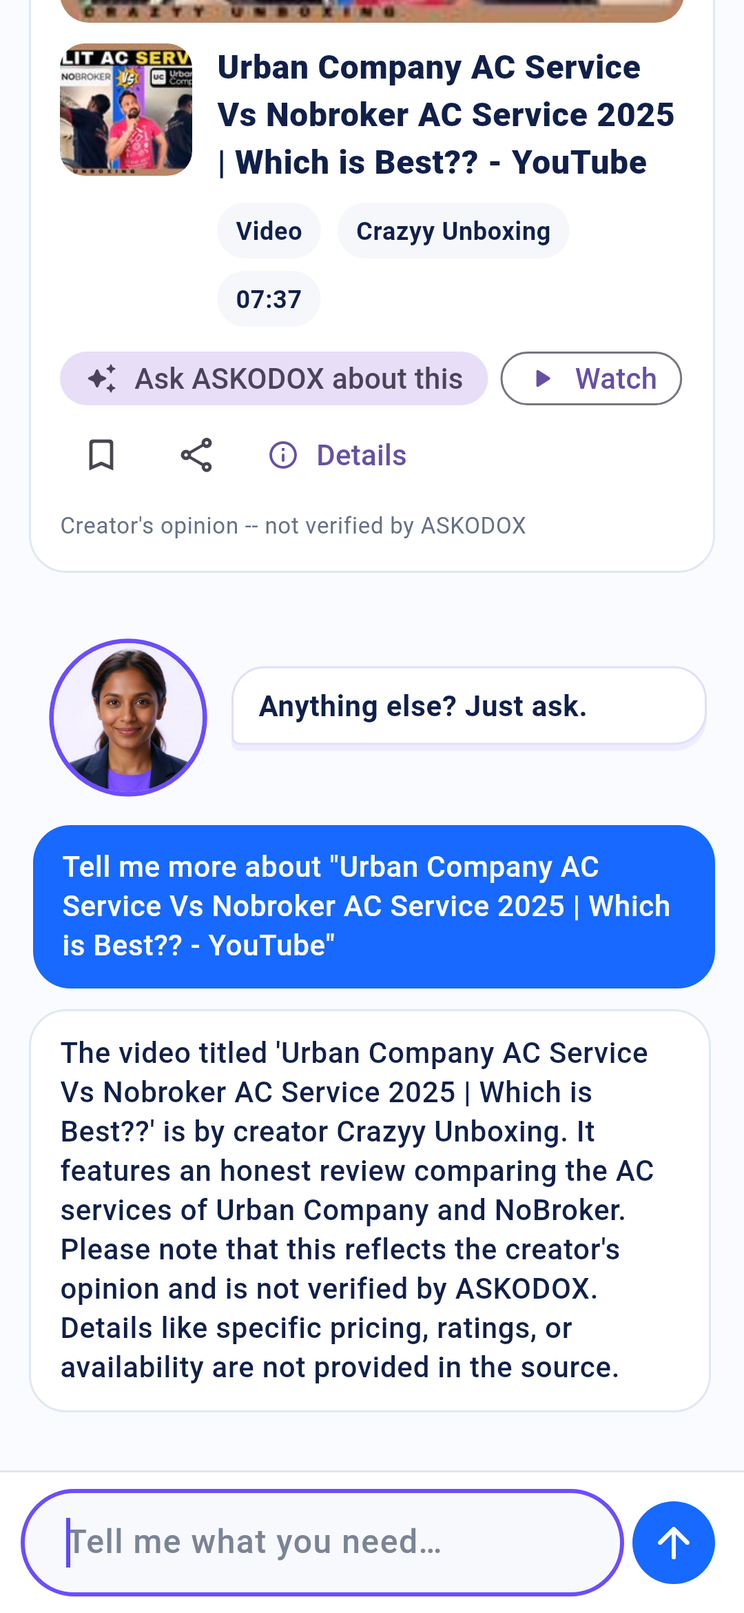
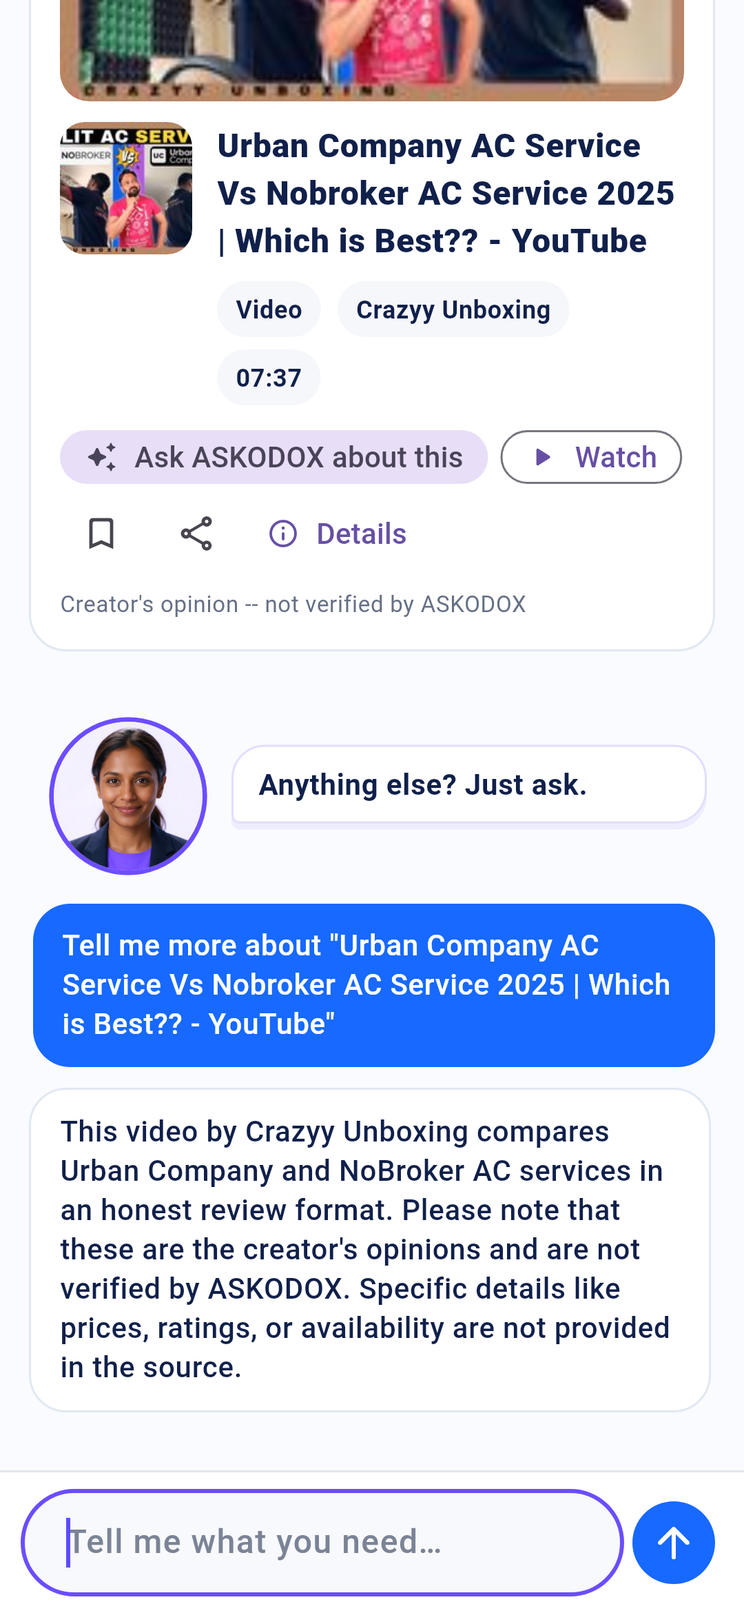
Video real-content proof (run 36677053441)

Changed region(s): [[0.0306, 0.3744, 0.9778, 0.8735], [0.0611, 0.0, 0.9167, 0.3744], [0.7639, 0.2184, 0.9167, 0.312]]

diff --git a/docs/video_proof/README.md b/docs/video_proof/README.md
@@ -1,6 +1,6 @@
 # Real video content proof
 
-Generated 2026-09-30T01:50:26Z by `.github/workflows/video-real-content-proof.yml` (run 36656721936).
+Generated 2026-09-30T06:16:08Z by `.github/workflows/video-real-content-proof.yml` (run 36677053441).
 
 * Video rows: **real**, from production's live web video search (Brave) -- replayed into this branch's pipeline, which adds references, YouTube oEmbed checks (live network), linking and disclosures.
 * AI answers: **real**, from the production assistant (`/api/in-app/assistant`) given exactly what the app sends (question + grounding from this branch's explain).
@@ -16,7 +16,7 @@ Generated 2026-09-30T01:50:26Z by `.github/workflows/video-real-content-proof.ym
 | vehicle | en | 1 | [Tata Nexon 3000 Km Long Term Review: 3 Reasons to Buy, 3 Re…](https://www.youtube.com/watch?v=PC-ztrSrDMo) | carandbike | yes (official YouTube embed) | Creator's opinion -- not verified by ASKODOX | yes | yes | tata nexon near me → 6 (deals, surplus, used) |
 | service | en | 1 | [Urban Company AC Service Vs Nobroker AC Service 2025 / Whic…](https://www.youtube.com/watch?v=KOYoiZG5_3E) | Crazyy Unboxing | yes (official YouTube embed) | Creator's opinion -- not verified by ASKODOX | yes | yes | ac service near me → 4 () |
 | home-service | en | 0 (production gave 1) | — | — | — | — | — | — | — |
-| food | en | 1 | [HYDERABADI CHICKEN DUM BIRYANI RECIPE / हैदराबादी चिकन दम ब…](https://www.youtube.com/watch?v=kYRcu5ZWxbo) | Your Food Lab | yes (official YouTube embed) | Creator's opinion -- not verified by ASKODOX | yes | yes | hyderabadi biryani near me → 5 (deals, used) |
+| food | en | 1 | [Hyderabadi Chicken Biryani / Chicken Biryani Recipe / Resat…](https://www.youtube.com/watch?v=1Nb0khRXiJk) | Ashus Delicacies | yes (official YouTube embed) | Creator's opinion -- not verified by ASKODOX | yes | yes | hyderabadi biryani near me → 5 (deals, used) |
 | travel | en | 1 | [Ultimate Araku Valley Travel Guide: Top Things to Do and Se…](https://www.youtube.com/watch?v=NWiBFTd5aD0) | Let's Discover India | yes (official YouTube embed) | Creator's opinion -- not verified by ASKODOX | yes | yes | araku valley trip reviews → 6 (deals) |
 | used-item | en | 1 | [The Truth About the Royal Enfield Classic 350 (2025 Review)…](https://www.youtube.com/watch?v=88rgLE_eNJk) | Jack Brock | yes (official YouTube embed) | Creator's opinion -- not verified by ASKODOX | yes | yes | used royal enfield classic 350 near me → 6 (deals, used) |
 | deal | en | 1 | [iPhone 15 in 2026 - worth it? (Review) - YouTube](https://www.youtube.com/watch?v=DJ5BkFUoKxg) | 91Tech | yes (official YouTube embed) | Creator's opinion -- not verified by ASKODOX | yes | yes | iphone 15 offers → 6 (deals, surplus, used) |
@@ -34,11 +34,11 @@ Label: Creator's opinion -- not verified by ASKODOX
 
 **User:** Tell me more about "Samsung 43 Inch Crystal UHD 4K Vision AI TV Review [2026] | 30W Speakers, HDR, Tizen OS - YouTube"
 
-**ASKODOX AI (production):** The video titled 'Samsung 43 Inch Crystal UHD 4K Vision AI TV Review [2026]' by creator Udrawat highlights features like 30W Speakers, HDR, and Tizen OS. Please note that this reflects the creator's opinion and is not verified by ASKODOX. Specific details such as price, ratings, and stock availability are not provided by the source.
+**ASKODOX AI (production):** Based on the video title from Udrawat, this 2026 review covers the Samsung 43 Inch Crystal UHD 4K Vision AI TV featuring 30W speakers, HDR support, and Tizen OS. Please note this is the creator's opinion and has not been verified by ASKODOX. Specific facts like price, rating, and stock availability are not provided by the source.
 
 **User (follow-up, same conversation):** Is it worth buying, and where can I get it here?
 
-**Production (main) AI:** The Samsung 43-inch Crystal UHD 4K TV is generally praised for its crisp display, Tizen OS, and 30W speaker output, making it a strong budget 4K option. You can check for availability at local electronics stores in Vijayawada like Reliance Digital, Croma, or Pai International.  
+**Production (main) AI:** It offers good 4K display quality, Tizen OS, and 30W audio for a solid entry-level smart TV experience. Would you like me to help check local electronics store options or search for current deals?  
 **This branch:** Let me check real sellers, shops and online options near you -- the results appear below. (action `find_local`: the real options below are the answer; shop names never come from the AI's memory)
 
 **Next step:** "samsung 43 inch tv near me" → samsung 43 inches tv | Used TV & DVD & Multimedia in Bangalore | Electronics & Appliances Quikr Bazaar Bangalore [used]; Samsung 43-inch TVs Price List in India (September 2026) [deals]; Second Hand TV - Old TV Latest Price, Manufacturers & Suppliers [used]; Buy Refurbished / Used TV & DVD in Vijayawada | Second Hand TV / Television For Sale Online | QuikrBazaar [used]
@@ -53,11 +53,11 @@ Label: Creator's opinion -- not verified by ASKODOX
 
 **User:** "Samsung 43 Inch Crystal UHD 4K Vision AI TV Review [2026] | 30W Speakers, HDR, Tizen OS - YouTube" గురించి చెప్పండి: ధర, దూరం, నాణ్యత, అందుబాటు, రివ్యూలు
 
-**ASKODOX AI (production):** ఈ YouTube రివ్యూ వీడియో శీర్షిక ప్రకారం, ఇది 2026 నాటి Samsung 43 Inch Crystal UHD 4K Vision AI TV కి సంబంధించినది (30W స్పీకర్లు, HDR, Tizen OS). ఇవి క్రియేటర్ Udrawat యొక్క వ్యక్తిగత అభిప్రాయాలు, ASKODOX ద్వారా ధృవీకరించబడలేదు. ధర, అందుబాటు, నాణ్యత/రివ్యూల వివరాలు ప్రస్తుతానికి అందుబాటులో లేవు.
+**ASKODOX AI (production):** ఈ Samsung 43 Inch Crystal UHD 4K TV గురించి మీరు అడిగిన ధర, దూరం, అందుబాటు మరియు రివ్యూల వివరాలు ప్రస్తుత వనరు (Udrawat) ద్వారా లభించలేదు. వీడియో టైటిల్ ప్రకారం ఇందులో 30W స్పీకర్లు, HDR, Tizen OS ఉన్నాయి, પરંતુ ఇది క్రియేటర్ అభిప్రాయం మాత్రమే. మీకు ఖచ్చితమైన ధర మరియు అందుబాటు వివరాలు కావాలంటే అమ్మకందారుడిని లేదా షాప్ను సంప్రదించి సమాచారం కనుక్కోమంటారా?
 
 **User (follow-up, same conversation):** ఇది చిన్న గదికి సరిపోతుందా?
 
-**ASKODOX AI:** అవును, 43 అంగుళాల టీవీ చిన్న లేదా విభాగాత్మక (మీడియం) గదికి బాగా సరిపోతుంది. సాధారణంగా 4 నుండి 7 అడుగుల వీక్షణ దూరం (viewing distance) ఉన్న గదులకు ఇది అనుకూలంగా ఉంటుంది.
+**ASKODOX AI:** 43 అంగుళాల టీవీకి సుమారు 4 నుండి 6 అడుగుల వీక్షణ దూరం సరిపోతుంది. మీ చిన్న గదిలో అంత దూరం ఉంటే ఇది చాలా బాగా సరిపోతుంది.
 
 **Next step:** "samsung 43 inch tv offers" → samsung 43 inches tv | Used TV & DVD & Multimedia in Bangalore | Electronics & Appliances Quikr Bazaar Bangalore [used]; Samsung 43-inch TVs Price List in India (September 2026) [deals]; Second Hand TV - Old TV Latest Price, Manufacturers & Suppliers [used]; Buy Refurbished / Used TV & DVD in Vijayawada | Second Hand TV / Television For Sale Online | QuikrBazaar [used]
 
@@ -71,11 +71,11 @@ Label: Creator's opinion -- not verified by ASKODOX
 
 **User:** Tell me more about "Redmi Note 13 Pro Review - Not again! - YouTube"
 
-**ASKODOX AI (production):** This video titled 'Redmi Note 13 Pro Review - Not again!' is by creator Izzi Boye. Please note that this reflects the creator's personal opinion and has not been verified by ASKODOX. Specific details such as price, ratings, availability, and full specifications are not provided in the source.
+**ASKODOX AI (production):** This video by creator Izzi Boye is titled "Redmi Note 13 Pro Review - Not again! - YouTube" and covers a 4G unboxing and review of the Redmi Note 13 Pro. Please note that this reflects the creator's personal opinion and is not verified by ASKODOX. Specific details such as price, ratings, availability, or full specifications are not provided by the source.
 
 **User (follow-up, same conversation):** Is it worth buying, and where can I get it here?
 
-**Production (main) AI:** The Redmi Note 13 Pro offers strong features like a 200MP camera and 120Hz AMOLED display, making it a solid choice if you want good performance and display. You can buy it online or check local electronics stores in Vijayawada like Mi Home, Reliance Digital, or Bajaj Electronics.  
+**Production (main) AI:** The video highlights creator Izzi Boye's hands-on thoughts, but whether it's worth buying depends on if you want the 4G or 5G version. You can check local electronics stores or online sellers around Vijayawada for local stock.  
 **This branch:** Let me check real sellers, shops and online options near you -- the results appear below. (action `find_local`: the real options below are the answer; shop names never come from the AI's memory)
 
 **Next step:** "redmi note 13 pro offers" → Buy Old Used Xiaomi Redmi Note 13 Pro 4G Phones Under ... [used]; Open Box Store [surplus]; Redmi Note 13 5G, Note 13 Pro 5G, Note 13 Pro+ 5G goes on sale on Vijay Sales - Times of India [deals]; Buy Refurbished and Second Hand Xiaomi Redmi Note 13 Pro 5G Online at Cashify Store [used]
@@ -90,11 +90,11 @@ Label: Creator's opinion -- not verified by ASKODOX
 
 **User:** Tell me more about "Tata Nexon 3000 Km Long Term Review: 3 Reasons to Buy, 3 Reasons to Avoid - YouTube"
 
-**ASKODOX AI (production):** The video titled 'Tata Nexon 3000 Km Long Term Review: 3 Reasons to Buy, 3 Reasons to Avoid' is created by carandbike based on their 3-month long-term test of the subcompact SUV. Please note that this reflects the creator's opinion and is not verified by ASKODOX. Specific details like price, rating, and detailed specifications are not provided in the source.
+**ASKODOX AI (production):** The video titled 'Tata Nexon 3000 Km Long Term Review: 3 Reasons to Buy, 3 Reasons to Avoid' by carandbike shares the creator's opinion after testing the subcompact SUV over 3 months and 3,000 km. Please note that this reflects carandbike's subjective review and is not verified by ASKODOX. Specific details like pricing, ratings, or full specifications were not provided with this video source.
 
 **User (follow-up, same conversation):** Is it worth buying, and where can I get it here?
 
-**Production (main) AI:** The Tata Nexon offers strong safety, good ride quality, and feature-rich variants, though some users note minor tech glitches. You can visit authorized Tata Motors showrooms in Vijayawada like Saboo RKS or Select Motors to check availability and test drive.  
+**Production (main) AI:** The Tata Nexon is generally considered a solid, feature-rich subcompact SUV with a 5-star safety rating, though performance can vary by variant. To check availability and local pricing in Vijayawada, are you looking for a specific variant or fuel type (Petrol/Diesel/EV)?  
 **This branch:** Let me check real sellers, shops and online options near you -- the results appear below. (action `find_local`: the real options below are the answer; shop names never come from the AI's memory)
 
 **Next step:** "tata nexon near me" → Tata NEXON Used Cars in Vijayawada | Second Hand Tata NEXON Cars in Vijayawada - Cars24 [used]; Tata Nexon On Road Price in Vijayawada (2026) – ₹8.63 lakh Onwards | Autocar India [surplus]; Tata Nexon May 2026 Offers in Vijayawada - Latest Discount & EMI Offers [deals]; 7+ Used Tata Nexon Cars in Vijayawada - Second Hand Tata Nexon Cars in Vijayawada [used]
@@ -109,30 +109,30 @@ Label: Creator's opinion -- not verified by ASKODOX
 
 **User:** Tell me more about "Urban Company AC Service Vs Nobroker AC Service 2025 | Which is Best?? - YouTube"
 
-**ASKODOX AI (production):** The video titled 'Urban Company AC Service Vs Nobroker AC Service 2025 | Which is Best??' is by creator Crazyy Unboxing. It features an honest review comparing the AC services of Urban Company and NoBroker. Please note that this reflects the creator's opinion and is not verified by ASKODOX. Details like specific pricing, ratings, or availability are not provided in the source.
+**ASKODOX AI (production):** This video by Crazyy Unboxing compares Urban Company and NoBroker AC services in an honest review format. Please note that these are the creator's opinions and are not verified by ASKODOX. Specific details like prices, ratings, or availability are not provided in the source.
 
 **User (follow-up, same conversation):** Is it worth buying, and where can I get it here?
 
-**Production (main) AI:** It depends on your preference for pricing and service quality. You can book AC servicing directly through the Urban Company or NoBroker apps, or hire local technicians in Vijayawada.  
+**Production (main) AI:** Yes, both offer reliable AC servicing, and you can book through the Urban Company or NoBroker apps directly in Vijayawada. Would you like me to find local AC service specialists instead?  
 **This branch:** Let me check real sellers, shops and online options near you -- the results appear below. (action `find_local`: the real options below are the answer; shop names never come from the AI's memory)
 
 **Next step:** "ac service near me" → Professional AC service & repair experts in Vijayawada, India [online]; Split AC Services in Vijayawada [online]; Top AC Service in Vijayawada, Best AC Repair Service in Vijayawada | Sulekha Vijayawada [online]; Top AC Repair Services in Vijayawada - AC Installation - Servicing - Justdial [online]
 
 ### food (en) -- "Hyderabadi biryani review video"
 
-**Video:** HYDERABADI CHICKEN DUM BIRYANI RECIPE | हैदराबादी चिकन दम बिरयानी बनाने का तरीका | Chef Sanjyot Keer - YouTube -- Your Food Lab (https://www.youtube.com/watch?v=kYRcu5ZWxbo)
+**Video:** Hyderabadi Chicken Biryani | Chicken Biryani Recipe | Resaturant Hyderabadi Chicken Biryani - YouTube -- Ashus Delicacies (https://www.youtube.com/watch?v=1Nb0khRXiJk)
 
 **ASKODOX explain (branch):** I haven't watched or analyzed this video. I only know its title, the description the creator wrote and the channel.  
-Quoted from source: HYDERABADI CHICKEN DUM BIRYANI RECIPE | हैदराबादी चिकन दम बिरयानी बनाने का तरीका | Chef Sanjyot Keer - YouTube / This is just the beginning of Biryanis of India.Tell me in the comments which biryani you want me to cover next. / I'll be reading every suggestion, and hopefu...  
+Quoted from source: Hyderabadi Chicken Biryani | Chicken Biryani Recipe | Resaturant Hyderabadi Chicken Biryani - YouTube / #chickenbiryani #chickenbiriyani #biryani Hyderabadi Chicken Biryani | Chicken Biryani Recipe | Resaturant Hyderabadi Chicken BiryaniIngredients:Chicken – 1....  
 Label: Creator's opinion -- not verified by ASKODOX
 
-**User:** Tell me more about "HYDERABADI CHICKEN DUM BIRYANI RECIPE | हैदराबादी चिकन दम बिरयानी बनाने का तरीका | Chef Sanjyot Keer - YouTube"
+**User:** Tell me more about "Hyderabadi Chicken Biryani | Chicken Biryani Recipe | Resaturant Hyderabadi Chicken Biryani - YouTube"
 
-**ASKODOX AI (production):** This video is 'Hyderabadi Chicken Dum Biryani Recipe' by Chef Sanjyot Keer from Your Food Lab. Please note that these are the creator's opinions and instructions, which are not verified by ASKODOX. Specific details like ratings, reviews, or full step-by-step specifications are not provided in the summary source.
+**ASKODOX AI (production):** This video by Ashus Delicacies shows a recipe for Hyderabadi Chicken Biryani, listing ingredients like chicken. Please note, this reflects the creator's opinion and is not verified by ASKODOX. Specific details like ratings or reviews are not provided by the source.
 
 **User (follow-up, same conversation):** Is it worth buying, and where can I get it here?
 
-**Production (main) AI:** Are you looking to order Hyderabadi Chicken Biryani for delivery from a local restaurant in Vijayawada?  
+**Production (main) AI:** As it is a cooking recipe video, there is nothing to buy directly. You can find the ingredients at any local grocery store or supermarket in Vijayawada to prepare it at home.  
 **This branch:** Let me check real sellers, shops and online options near you -- the results appear below. (action `find_local`: the real options below are the answer; shop names never come from the AI's memory)
 
 **Next step:** "hyderabadi biryani near me" → Biryani - Used Kitchen & Other Appliances for sale in India | OLX [used]; Biryani Blues | Order Authentic Hyderabadi Dum Biryani Online [deals]; Order The Biryani Life Hyderabadi & Lucknowi Biryani Online in Vijayawada from EatSure [online]; Order Online – HYDERABAD BIRYANI POINT [online]
@@ -147,11 +147,11 @@ Label: Creator's opinion -- not verified by ASKODOX
 
 **User:** Tell me more about "Ultimate Araku Valley Travel Guide: Top Things to Do and See - YouTube"
 
-**ASKODOX AI (production):** This video titled 'Ultimate Araku Valley Travel Guide: Top Things to Do and See' is created by Let's Discover India. According to the creator's description, it covers hidden gems of Araku Valley including Borra Caves and Anantagiri Waterfalls. Please note that these are the creator's opinions and not verified by ASKODOX. Specific details like ratings, reviews, or full video content are not provided by the source.
+**ASKODOX AI (production):** According to the video 'Ultimate Araku Valley Travel Guide: Top Things to Do and See' by Let's Discover India, it covers hidden gems of Araku Valley, including Borra Caves and Anantagiri Waterfalls. Please note that this reflects the creator's opinion and is not verified by ASKODOX. Specific details like ratings or reviews are not provided by the source.
 
 **User (follow-up, same conversation):** Is it worth buying, and where can I get it here?
 
-**Production (main) AI:** Are you asking about a specific item, product, or ticket mentioned in the guide? Please specify what you are looking to buy.  
+**Production (main) AI:** The video provides a helpful overview of Araku Valley highlights like Borra Caves and Anantagiri Waterfalls. You can watch it directly on YouTube to see if it suits your travel plans.  
 **This branch:** Let me check real sellers, shops and online options near you -- the results appear below. (action `find_local`: the real options below are the answer; shop names never come from the AI's memory)
 
 **Next step:** "araku valley trip reviews" → Araku Valley Tour Packages from Vijayawada, Flat 20% Off - Book at Lowest Price [deals]; 5 Araku Valley Tour Packages at ₹6785 pp - Book Online with 20% Off [deals]; Araku Valley Tour Packages from Vijayawada | Araku Valley Packages from Vijayawada | Araku Valley Honeymoon Packages from Vijayawada | Araku Valley Holiday Pack [deals]; Vijayawada To Araku Valley Trains | Book From 6 Trains, Timetable, Fare [online]
@@ -166,11 +166,11 @@ Label: Creator's opinion -- not verified by ASKODOX
 
 **User:** Tell me more about "The Truth About the Royal Enfield Classic 350 (2025 Review) - YouTube"
 
-**ASKODOX AI (production):** This video by creator Jack Brock is titled 'The Truth About the Royal Enfield Classic 350 (2025 Review)'. The creator focuses on a straightforward review rather than an over-produced cinematic one. Please note that these are the creator's opinions and not verified by ASKODOX. Specifics like price, vehicle condition, and detailed ratings are not provided in the source summary.
+**ASKODOX AI (production):** The video 'The Truth About the Royal Enfield Classic 350 (2025 Review)' is created by Jack Brock. According to the description, it focuses on a direct, practical review without over-produced cinematic shots. Please note that these are the creator's opinions and have not been verified by ASKODOX. Specific details like price, rating, reviews, and detailed motorcycle specifications were not provided in the source.
 
 **User (follow-up, same conversation):** Is it worth buying, and where can I get it here?
 
-**Production (main) AI:** The Classic 350 is popular for its smooth J-series engine, classic styling, and improved reliability, though it is heavy and lacks high top-end speed. You can look for used models at local pre-owned two-wheeler dealerships or online platforms in Vijayawada.  
+**Production (main) AI:** The Classic 350 is generally well-regarded for its refined engine and comfortable ride compared to older models. In Vijayawada, you can find used Royal Enfield bikes at local pre-owned two-wheeler dealerships or online platforms like OLX.  
 **This branch:** Let me check real sellers, shops and online options near you -- the results appear below. (action `find_local`: the real options below are the answer; shop names never come from the AI's memory)
 
 **Next step:** "used royal enfield classic 350 near me" → 13 Used Royal Enfield Classic in Vijayawada. Buy from Owners and Dealers - Bikes4Sale [used]; 9 Used Royal Enfield Classic 350 Bikes in Vijayawada - Buy & Sell Second Hand Bikes [deals]; Royal Enfield Classic 350 price in Vijayawada - September 2026 on road price of Classic 350 in Vijayawada [deals]; Used Royal Enfield Classic 350 Bikes in Vijayawada - Second Hand Royal Enfield Classic 350 Bikes for Sale in Vijayawada [used]
@@ -185,11 +185,11 @@ Label: Creator's opinion -- not verified by ASKODOX
 
 **User:** Tell me more about "iPhone 15 in 2026 - worth it? (Review) - YouTube"
 
-**ASKODOX AI (production):** The video 'iPhone 15 in 2026 - worth it? (Review)' by 91Tech expresses the creator's opinion that the iPhone 15 and 15 Plus are solid midrange smartphones featuring USB-C, noting they are over 2 years old and recently discontinued. Please note this is the creator's opinion and is not verified by ASKODOX. Specific details like price, rating, reviews, stock, and detailed specifications were not provided by the source.
+**ASKODOX AI (production):** Based on the description from 91Tech, the video discusses whether the iPhone 15 is still worth buying in 2026, noting it as a solid midrange option with features like USB-C, though recently discontinued. Please note this is the creator's opinion and not verified by ASKODOX. Specific details like current price, rating, and stock are not provided by the source. Would you like me to look up specifications or current prices for the iPhone 15?
 
 **User (follow-up, same conversation):** Is it worth buying, and where can I get it here?
 
-**Production (main) AI:** The iPhone 15 is still a solid phone with USB-C and great cameras, though it's a couple of generations old now. In Vijayawada, you can check availability at local electronics stores like Reliance Digital, Bajaj Electronics, or Apple Authorised Resellers.  
+**Production (main) AI:** The iPhone 15 remains a solid choice with its A16 Bionic chip, USB-C port, and reliable cameras, though high refresh rate displays are missing. In Vijayawada, you can check availability at authorized Apple resellers like Imagine or Aptronix, or major electronics stores like Reliance Digital.  
 **This branch:** Let me check real sellers, shops and online options near you -- the results appear below. (action `find_local`: the real options below are the answer; shop names never come from the AI's memory)
 
 **Next step:** "iphone 15 offers" → Buy & Sell Second Hand iPhones in Vijayawada, Used Apple Mobile Phones in Vijayawada | OLX [used]; Apple Open Box [surplus]; iPhone 15 is available for less than Rs 35,000 on Vijay Sales, here is how the deal works - India Today [deals]; Buy & Sell Second Hand Iphone in Vijayawada, Used Mobiles in Vijayawada | OLX [used]
@@ -204,11 +204,11 @@ Label: Creator's opinion -- not verified by ASKODOX
 
 **User:** "Urban Company AC Service Vs Nobroker AC Service 2025 | Which is Best?? - YouTube" గురించి చెప్పండి: ధర, దూరం, నాణ్యత, అందుబాటు, రివ్యూలు
 
-**ASKODOX AI (production):** ఈ వీడియో Urban Company మరియు NoBroker AC సర్వీస్ల మధ్య పోలిక మరియు రివ్యూ గురించి చర్చిస్తుంది (ఇది క్రియేటర్ 'Crazyy Unboxing' యొక్క సొంత అభిప్రాయం, ASKODOX ద్వారా నిరూపించబడలేదు). అయితే, ఇందులో ఖచ్చితమైన ధరలు, దూరం, అందుబాటు మరియు కస్టమర్ రివ్యూల వివరాలు అందించబడలేదు.
+**ASKODOX AI (production):** Urban Company మరియు NoBroker AC సర్వీస్ల పోలిక వీడియో (Crazyy Unboxing ద్వారా) శీర్షిక ఆధారంగా లభించింది. అయితే, వీటి ధర, దూరం, నాణ్యత, అందుబాటు మరియు రివ్యూలకు సంబంధించిన స్పష్టమైన వివరాలు అందించబడలేదు. ఇది క్రియేటర్ యొక్క వ్యక్తిగత అభిప్రాయం మాత్రమే, ASKODOX ద్వారా ధృవీకరించబడలేదు.
 
 **User (follow-up, same conversation):** ఇది చిన్న గదికి సరిపోతుందా?
 
-**ASKODOX AI:** చిన్న గదికి సాధారణంగా 1 టన్ను లేదా 0.8 టన్నుల ఏసీ సరిపోతుంది. మీకు ఏ బ్రాండ్ లేదా మోడల్ వివరాలు కావాలో చెబితే సరిగ్గా సరిపోతుందో లేదో చూడవచ్చు.
+**ASKODOX AI:** చిన్న గదికి (సుమారు 100-120 చదరపు అడుగులు) 1 టన్ను AC సరిగ్గా సరిపోతుంది. మీరు ఏ బ్రాండ్ లేదా మోడల్ చూస్తున్నారో చెబితే మరిన్ని వివరాలు అందిస్తాను.
 
 **Next step:** "ac service near me" → Professional AC service & repair experts in Vijayawada, India [online]; Split AC Services in Vijayawada [online]; Top AC Service in Vijayawada, Best AC Repair Service in Vijayawada | Sulekha Vijayawada [online]; Top AC Repair Services in Vijayawada - AC Installation - Servicing - Justdial [online]
 
